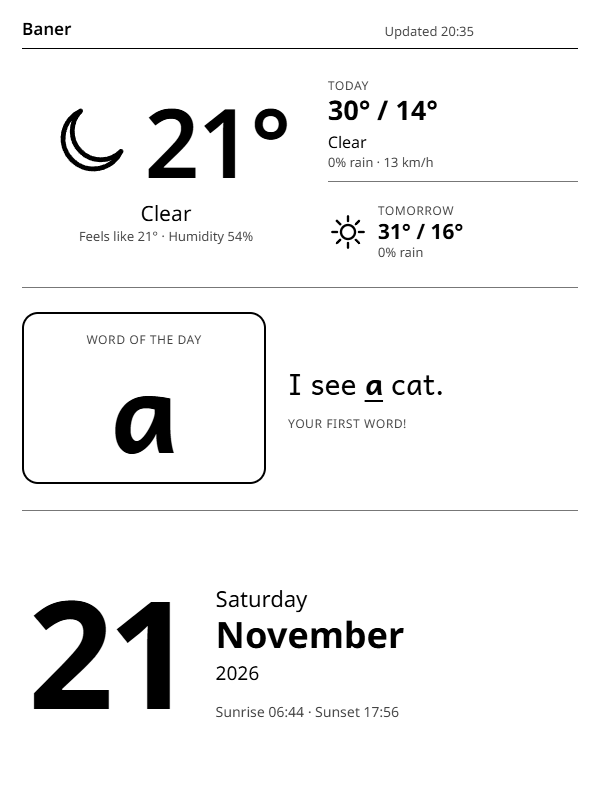
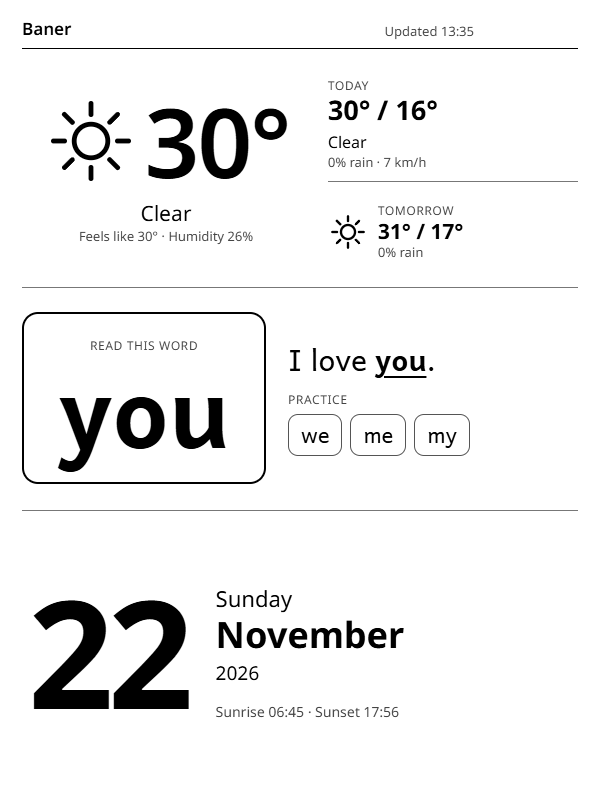
Refresh at :00 and :30; GitHub draws each slot five minutes before
GitHub now runs at :25 and :55 (05:55-21:25 Pune time) and draws the picture
for the next :00/:30 slot, using that slot's sight word and the forecast for
that time. The Kindle wakes exactly at :00 and :30 (06:00-21:30) and sleeps
from 21:30 straight through to 06:00.

diff --git a/src/render.js b/src/render.js
@@ -1,50 +1,52 @@
-// Fetch data -> pick the page for the current Pune time -> render -> 8-bit grayscale PNG for the Kindle.
-//   npm run render              the page for right now (what GitHub publishes)
-//   PAGE=bedtime npm run render  force one page
-//   PAGE=all npm run render      every page into out/pages/ for previewing
-//   SW_DATE=2026-12-24           preview the sight word for another day
+// Fetch data, then draw the Kindle picture as an 8-bit grayscale PNG.
+//
+//   npm run render                What GitHub publishes: the picture for the NEXT refresh slot
+//                                 (:00 or :30). GitHub runs at :25 and :55, so it's ready when the
+//                                 Kindle wakes.
+//   PAGE=bedtime npm run render   Force one page (for previewing), drawn for right now.
+//   PAGE=all npm run render       Every page into out/pages/.
+//   SW_DATE=YYYY-MM-DD SW_TIME=HH:MM   Preview a different moment (with PAGE=...).
 import { mkdirSync, readFileSync, writeFileSync } from 'node:fs';
 import { fileURLToPath } from 'node:url';
 import puppeteer from 'puppeteer';
 import sharp from 'sharp';
-import { fetchWeather } from './weather.js';
+import { fetchWeather, weatherAt } from './weather.js';
 import { fetchAirQuality } from './airquality.js';
 import { moonPhase } from './moon.js';
 import { wordAt, wordIndex, firstWordIndex } from './sightwords.js';
 import { festivalOn, nextFestival, addDays } from './family.js';
-import { localNow, choosePage } from './schedule.js';
+import { localNow, choosePage, nextSlot, slotOf } from './schedule.js';
 import { PAGES } from './pages.js';
 
 const cfg = JSON.parse(readFileSync(new URL('../config.json', import.meta.url)));
 const outDir = new URL('../out/', import.meta.url);
 mkdirSync(outDir, { recursive: true });
+const out = (p) => fileURLToPath(new URL(p, outDir));
 
-const [w, aq] = await Promise.all([fetchWeather(cfg), fetchAirQuality(cfg)]);
+const [forecast, aq] = await Promise.all([fetchWeather(cfg), fetchAirQuality(cfg)]);
+writeFileSync(out('weather.json'), JSON.stringify({ ...forecast, airQuality: aq }, null, 2));
 const now = localNow(cfg.timezone);
-// Between midnight and 6 am it's still "last night": keep showing last night's word.
-// (GitHub sometimes runs a scheduled job hours late.)
-//   SW_DATE=YYYY-MM-DD and SW_TIME=HH:MM preview the word for another moment.
-const swCfg = cfg.sightWords;
-const lateNight = now.hour < 6;
-const wordDate = process.env.SW_DATE || (lateNight ? addDays(now.iso, -1) : now.iso);
-const wordMin = process.env.SW_TIME
-  ? process.env.SW_TIME.split(':').reduce((h, m) => h * 60 + +m)
-  : lateNight ? 24 * 60 - 1 : now.minutes;
-const refresh = swCfg.mode === 'refresh';
-const ctx = {
-  cfg, w, aq, now,
-  sw: wordAt(wordIndex(wordDate, wordMin, swCfg), swCfg.reviewCount),
-  // The next word the child will see: tomorrow's first word.
-  swTomorrow: wordAt(firstWordIndex(addDays(wordDate, 1), swCfg), swCfg.reviewCount),
-  labels: refresh
-    ? { word: 'Read this word', short: 'Read this word', learned: 'Last word today', next: 'First word tomorrow', progress: 'Word' }
-    : { word: 'Word of the day', short: "Today's word", learned: 'Today you learned', next: "Tomorrow's word", progress: 'Words I can read' },
-  moon: moonPhase(),
-  fest: festivalOn(now.iso) ?? nextFestival(now.iso), // the next one is only used when previewing
-};
-ctx.sw.label = ctx.labels.word;
-ctx.swTomorrow.label = ctx.labels.word;
-writeFileSync(new URL('weather.json', outDir), JSON.stringify({ ...w, airQuality: aq }, null, 2));
+
+const sw = cfg.sightWords;
+const labels = sw.mode === 'refresh'
+  ? { word: 'Read this word', short: 'Read this word', learned: 'Last word today', next: 'First word tomorrow', progress: 'Word' }
+  : { word: 'Word of the day', short: "Today's word", learned: 'Today you learned', next: "Tomorrow's word", progress: 'Words I can read' };
+
+// Everything a page needs to draw itself as of `slot` (a date and time).
+function contextFor(slot) {
+  const word = wordAt(wordIndex(slot.iso, slot.minutes, sw, cfg.refresh), sw.reviewCount);
+  const next = wordAt(firstWordIndex(addDays(slot.iso, 1), sw, cfg.refresh), sw.reviewCount);
+  word.label = next.label = labels.word;
+  return {
+    cfg, aq, labels,
+    now: slot,
+    w: weatherAt(forecast, slot.iso, slot.minutes),
+    sw: word,
+    swTomorrow: next,
+    moon: moonPhase(),
+    fest: festivalOn(slot.iso) ?? nextFestival(slot.iso), // the next one is only used when previewing
+  };
+}
 
 async function renderTo(tab, html, file) {
   await tab.setContent(html, { waitUntil: 'load' });
@@ -60,27 +62,35 @@ try {
   const tab = await browser.newPage();
   await tab.setViewport({ width: cfg.width, height: cfg.height, deviceScaleFactor: 1 });
 
-  if (process.env.PAGE === 'all') {
-    const dir = new URL('pages/', outDir);
-    mkdirSync(dir, { recursive: true });
-    for (const [name, build] of Object.entries(PAGES)) {
-      await renderTo(tab, build(ctx), fileURLToPath(new URL(`${name}.png`, dir)));
-      console.log(`  ${name}`);
+  if (process.env.PAGE) {
+    // Preview: draw for right now, or for SW_DATE / SW_TIME.
+    const t = process.env.SW_TIME ? process.env.SW_TIME.split(':').reduce((h, m) => h * 60 + +m) : now.minutes;
+    const ctx = contextFor(slotOf(process.env.SW_DATE || now.iso, t));
+    const all = process.env.PAGE === 'all';
+    if (all) mkdirSync(out('pages/'), { recursive: true });
+    for (const name of all ? Object.keys(PAGES) : [process.env.PAGE]) {
+      const html = PAGES[name](ctx);
+      if (!all) writeFileSync(out('preview.html'), html);
+      await renderTo(tab, html, all ? out(`pages/${name}.png`) : out('dashboard.png'));
+      console.log(`  ${name}: word "${ctx.sw.word}"`);
     }
-    console.log(`Rendered ${Object.keys(PAGES).length} pages to out/pages/`);
   } else {
-    const name = process.env.PAGE || choosePage(now, cfg.schedule);
-    const html = PAGES[name](ctx);
-    writeFileSync(new URL('preview.html', outDir), html);
-    await renderTo(tab, html, fileURLToPath(new URL('dashboard.png', outDir)));
+    // Publish: the picture for the next :00 / :30 slot.
+    const slot = nextSlot(now, cfg.refresh);
+    const ctx = contextFor(slot);
+    const page = choosePage(slot, cfg.schedule);
+    const html = PAGES[page](ctx);
+    writeFileSync(out('preview.html'), html);
+    await renderTo(tab, html, out('dashboard.png'));
     // Tells the Kindle which battery badge to use (white or black background).
-    writeFileSync(new URL('theme.txt', outDir), name === 'bedtime' ? 'dark\n' : 'light\n');
-    writeFileSync(new URL('page.txt', outDir), `${name}\n`);
-    writeFileSync(new URL('index.html', outDir),
+    writeFileSync(out('theme.txt'), page === 'bedtime' ? 'dark\n' : 'light\n');
+    const at = `${slot.iso} ${String(slot.hour).padStart(2, '0')}:${String(slot.minutes % 60).padStart(2, '0')}`;
+    writeFileSync(out('page.txt'), `${page} for ${at}\n`);
+    writeFileSync(out('index.html'),
       `<!doctype html><meta charset="utf-8"><title>${cfg.city} dashboard</title>` +
       `<body style="margin:0;background:#ddd;display:grid;place-items:center;min-height:100vh">` +
       `<img src="dashboard.png" width="${cfg.width}" height="${cfg.height}" style="box-shadow:0 2px 12px #0003">`);
-    console.log(`Rendered "${name}" page: ${w.current.temp}° ${w.current.label}, word "${ctx.sw.word}", updated ${w.updated}`);
+    console.log(`Drew "${page}" for ${at} (word "${ctx.sw.word}"), at ${forecast.updated}`);
   }
 } finally {
   await browser.close();

diff --git a/src/weather.js b/src/weather.js
@@ -44,9 +44,9 @@ export async function fetchWeather(cfg) {
     latitude: cfg.latitude,
     longitude: cfg.longitude,
     timezone: cfg.timezone,
-    forecast_days: '3',
+    forecast_days: '5',
     current: 'temperature_2m,apparent_temperature,relative_humidity_2m,weather_code,is_day,wind_speed_10m',
-    hourly: 'temperature_2m,precipitation_probability,weather_code,is_day',
+    hourly: 'temperature_2m,apparent_temperature,relative_humidity_2m,precipitation_probability,weather_code,is_day,wind_speed_10m',
     daily: 'weather_code,temperature_2m_max,temperature_2m_min,precipitation_probability_max,wind_speed_10m_max,sunrise,sunset',
   });
   const res = await fetch(`https://api.open-meteo.com/v1/forecast?${params}`);
@@ -56,67 +56,78 @@ export async function fetchWeather(cfg) {
 
 const round = (n) => Math.round(n);
 const hhmm = (iso) => iso.slice(11, 16);
+const longDate = (iso, opt) => new Date(iso + 'T00:00:00Z').toLocaleDateString('en-GB', { ...opt, timeZone: 'UTC' });
 
+// Everything fetched, kept as plain arrays so a view can be built for any time (see weatherAt).
 function shape(raw, cfg) {
   const { current: c, hourly: h, daily: d } = raw;
-
-  // Open-Meteo returns local times without an offset, e.g. "2026-11-21T14:15".
-  const nowHour = c.time.slice(0, 13) + ':00';
-  let start = h.time.indexOf(nowHour);
-  if (start < 0) start = 0;
-  start += 1; // begin with the next full hour
-
-  const hours = [];
-  for (let i = 0; i < cfg.hourlySlots; i++) {
-    const k = start + i * cfg.hourlyStep;
-    if (k >= h.time.length) break;
-    hours.push({
-      time: hhmm(h.time[k]),
-      temp: round(h.temperature_2m[k]),
-      rain: h.precipitation_probability[k] ?? 0,
-      ...describe(h.weather_code[k], h.is_day[k]),
-    });
-  }
-
-  const day = (i) => ({
-    max: round(d.temperature_2m_max[i]),
-    min: round(d.temperature_2m_min[i]),
-    rain: d.precipitation_probability_max[i] ?? 0,
-    wind: round(d.wind_speed_10m_max[i]),
-    ...describe(d.weather_code[i], 1),
-  });
-
-  const [y, m, dd] = d.time[0].split('-').map(Number);
-  const date = new Date(Date.UTC(y, m - 1, dd));
-
   return {
     city: cfg.city,
+    fetchedAt: c.time, // local time, e.g. "2026-11-22T13:15"
     updated: new Intl.DateTimeFormat('en-GB', {
       timeZone: cfg.timezone, hour: '2-digit', minute: '2-digit', hour12: false,
     }).format(new Date()),
-    current: {
+    now: {
       temp: round(c.temperature_2m),
       feels: round(c.apparent_temperature),
       humidity: c.relative_humidity_2m,
       wind: round(c.wind_speed_10m),
       ...describe(c.weather_code, c.is_day),
     },
-    today: day(0),
-    tomorrow: day(1),
-    days: d.time.slice(0, 3).map((iso, i) => ({
-      iso,
-      name: new Date(iso + 'T00:00:00Z').toLocaleDateString('en-GB', { weekday: 'short', timeZone: 'UTC' }),
-      ...day(i),
+    hourly: h.time.map((time, k) => ({
+      time,
+      temp: round(h.temperature_2m[k]),
+      feels: round(h.apparent_temperature[k]),
+      humidity: h.relative_humidity_2m[k],
+      wind: round(h.wind_speed_10m[k]),
+      rain: h.precipitation_probability[k] ?? 0,
+      ...describe(h.weather_code[k], h.is_day[k]),
     })),
-    hours,
+    daily: d.time.map((iso, i) => ({
+      iso,
+      name: longDate(iso, { weekday: 'short' }),
+      max: round(d.temperature_2m_max[i]),
+      min: round(d.temperature_2m_min[i]),
+      rain: d.precipitation_probability_max[i] ?? 0,
+      wind: round(d.wind_speed_10m_max[i]),
+      sunrise: hhmm(d.sunrise[i]),
+      sunset: hhmm(d.sunset[i]),
+      ...describe(d.weather_code[i], 1),
+    })),
+  };
+}
+
+// The weather as the pages should see it at a given local date and time.
+// Close to the fetch time it uses the measured current conditions; for a later time
+// (a pre-drawn slot) it uses that hour's forecast, and "today" becomes that day.
+export function weatherAt(f, iso, minutes) {
+  let off = f.daily.findIndex((x) => x.iso === iso);
+  if (off < 0) off = 0;
+  const target = `${iso}T${String(Math.floor(minutes / 60)).padStart(2, '0')}:00`;
+  const fetchedMin = Date.parse(f.fetchedAt + 'Z') / 60000;
+  const targetMin = Date.parse(`${iso}T00:00Z`) / 60000 + minutes;
+  let current = f.now;
+  if (Math.abs(targetMin - fetchedMin) > 45) {
+    const hr = f.hourly.find((x) => x.time === target);
+    if (hr) current = { temp: hr.temp, feels: hr.feels, humidity: hr.humidity, wind: hr.wind, icon: hr.icon, label: hr.label };
+  }
+  const day = f.daily[off];
+  const [y, , dd] = iso.split('-').map(Number);
+  return {
+    city: f.city,
+    updated: f.updated,
+    current,
+    today: day,
+    tomorrow: f.daily[off + 1] ?? day,
+    days: f.daily.slice(off, off + 3),
     date: {
-      iso: d.time[0],
+      iso,
       day: dd,
-      weekday: date.toLocaleDateString('en-GB', { weekday: 'long', timeZone: 'UTC' }),
-      month: date.toLocaleDateString('en-GB', { month: 'long', timeZone: 'UTC' }),
+      weekday: longDate(iso, { weekday: 'long' }),
+      month: longDate(iso, { month: 'long' }),
       year: y,
-      sunrise: hhmm(d.sunrise[0]),
-      sunset: hhmm(d.sunset[0]),
+      sunrise: day.sunrise,
+      sunset: day.sunset,
     },
   };
 }

diff --git a/src/sightwords.js b/src/sightwords.js
@@ -146,21 +146,21 @@ const dayIndex = (iso, startDate) => {
 const toMin = (hhmm) => { const [h, m] = hhmm.split(':').map(Number); return h * 60 + m; };
 
 // Which word to show at a given date and time.
-//   mode "refresh": a new word for every refresh slot of the day (e.g. every 30 min, 06:07-21:37)
+//   mode "refresh": a new word for every refresh slot of the day (config.refresh: every 30 min, 06:00-21:30)
 //   mode "daily":   one word for the whole day
 // Uses the clock rather than counting runs, so a late or skipped GitHub run doesn't shift words.
-export function wordIndex(iso, minutes, sw) {
+export function wordIndex(iso, minutes, sw, refresh) {
   const day = dayIndex(iso, sw.startDate);
   if (sw.mode !== 'refresh') return day;
-  const start = toMin(sw.dayStart), end = toMin(sw.dayEnd);
-  const perDay = Math.floor((end - start) / sw.slotMinutes) + 1;
-  const slot = Math.min(perDay - 1, Math.max(0, Math.floor((minutes - start) / sw.slotMinutes)));
+  const start = toMin(refresh.from), end = toMin(refresh.to);
+  const perDay = Math.floor((end - start) / refresh.every) + 1;
+  const slot = Math.min(perDay - 1, Math.max(0, Math.floor((minutes - start) / refresh.every)));
   return day * perDay + slot;
 }
 
-// Index of the first word of the next day.
-export function firstWordIndex(iso, sw) {
-  return wordIndex(iso, toMin(sw.dayStart), sw);
+// Index of the first word of a day.
+export function firstWordIndex(iso, sw, refresh) {
+  return wordIndex(iso, toMin(refresh.from), sw, refresh);
 }
 
 // Kept for the daily mode and older callers.

diff --git a/src/schedule.js b/src/schedule.js
@@ -30,3 +30,26 @@ export function choosePage(now, s) {
   if (within(now.minutes, s.reading.from, s.reading.to)) return 'reading';
   return 'main';
 }
+
+// ---------------------------------------------------------------- refresh slots
+// The Kindle refreshes at :00 and :30 (config.refresh: every 30 min, 06:00-21:30).
+// GitHub runs a few minutes before each one and draws the picture for that next slot.
+
+const WEEKDAYS = ['Sun', 'Mon', 'Tue', 'Wed', 'Thu', 'Fri', 'Sat'];
+const shiftDay = (iso, n) => new Date(Date.parse(iso + 'T00:00:00Z') + n * 86400000).toISOString().slice(0, 10);
+
+export const slotOf = (iso, minutes) => ({
+  iso,
+  minutes,
+  hour: Math.floor(minutes / 60),
+  weekday: WEEKDAYS[new Date(iso + 'T00:00:00Z').getUTCDay()],
+});
+
+// The next refresh slot after `now`; after the last slot of the day, the first one tomorrow.
+export function nextSlot(now, refresh) {
+  const from = mins(refresh.from), to = mins(refresh.to), every = refresh.every;
+  const m = (Math.floor(now.minutes / every) + 1) * every;
+  if (m < from) return slotOf(now.iso, from);
+  if (m > to) return slotOf(shiftDay(now.iso, 1), from);
+  return slotOf(now.iso, m);
+}

diff --git a/README.md b/README.md
@@ -1,13 +1,15 @@
 # Kindle weather dashboard (Baner, Pune)
 
 Turns a jailbroken Kindle into a wall-mounted family display: weather, a sight word of the day
-for an early reader, and a different page for each part of the day. GitHub renders a 600×800 grayscale
-PNG every 30 minutes from 06:07 to 21:37. Every 30 minutes the Kindle wakes up, downloads it over Wi-Fi,
-shows it, and deep-sleeps; from 22:00 it sleeps straight through to 06:15.
+for an early reader, and a different page for each part of the day.
+
+The Kindle refreshes **exactly at :00 and :30**, from 06:00 to 21:30. Five minutes before each
+refresh (at :25 and :55) GitHub draws the 600×800 grayscale picture for that slot. The Kindle wakes,
+downloads it over Wi-Fi, shows it and deep-sleeps; after 21:30 it sleeps straight through to 06:00.
 Nothing at home has to stay on.
 
 ```
-Open-Meteo API ──► GitHub Actions (every 30 min) ──► GitHub Pages: dashboard.png ──► Kindle (Wi-Fi, curl + eips)
+Open-Meteo API ──► GitHub Actions (:25 and :55) ──► GitHub Pages: dashboard.png ──► Kindle (Wi-Fi, curl + eips)
 ```
 
 ## Project layout
@@ -26,7 +28,7 @@ Open-Meteo API ──► GitHub Actions (every 30 min) ──► GitHub Pages: d
 | `data/festivals.json` | **You edit this:** festival dates that get a themed page |
 | `src/sightwords.js` | Sight word of the day: 92 Dolch pre-primer and primer words, each with a short sentence |
 | `src/render.js` | Renders HTML → screenshot → 8-bit grayscale PNG in `out/` |
-| `.github/workflows/render.yml` | Runs the render every 30 min (06:07-21:37) and publishes `out/` to GitHub Pages |
+| `.github/workflows/render.yml` | Runs at :25/:55 (05:55-21:25), draws the next :00/:30 picture and publishes `out/` to GitHub Pages |
 | `kindle/weatherdash/` | Dashboard scripts for the Kindle (`/mnt/us/weatherdash`) |
 | `kindle/documents/` | Scriptlets that start the dashboard from the Kindle library |
 
@@ -116,13 +118,13 @@ Festival dates marked `"check": true` follow the Hindu calendar and need confirm
 Every page shows a sight word in the Andika font (made for early readers), with a short sentence
 using it and the previous three words to practise. Settings are in `config.json` → `sightWords`:
 
-- `"mode": "refresh"` (current): a **new word and sentence at every refresh**, every 30 minutes
-  from `dayStart` to `dayEnd`. That is 32 words a day, so the 92-word list cycles about every 3 days.
+- `"mode": "refresh"` (current): a **new word and sentence at every refresh** (:00 and :30,
+  06:00-21:30, set in `config.json` → `refresh`). That is 32 words a day, so the 92-word list cycles about every 3 days.
 - `"mode": "daily"`: one word for the whole day, cycling every 92 days.
 
 Words follow the clock, not the number of runs, so a late or skipped GitHub run doesn't throw the
 order off. To start the list over from "a", set `startDate` to today. To preview a moment:
-`$env:SW_DATE="2026-11-23"; $env:SW_TIME="07:07"; npm run render`.
+`$env:SW_DATE="2026-11-23"; $env:SW_TIME="07:00"; $env:PAGE="morning"; npm run render`.
 
 ## Changing city
 
